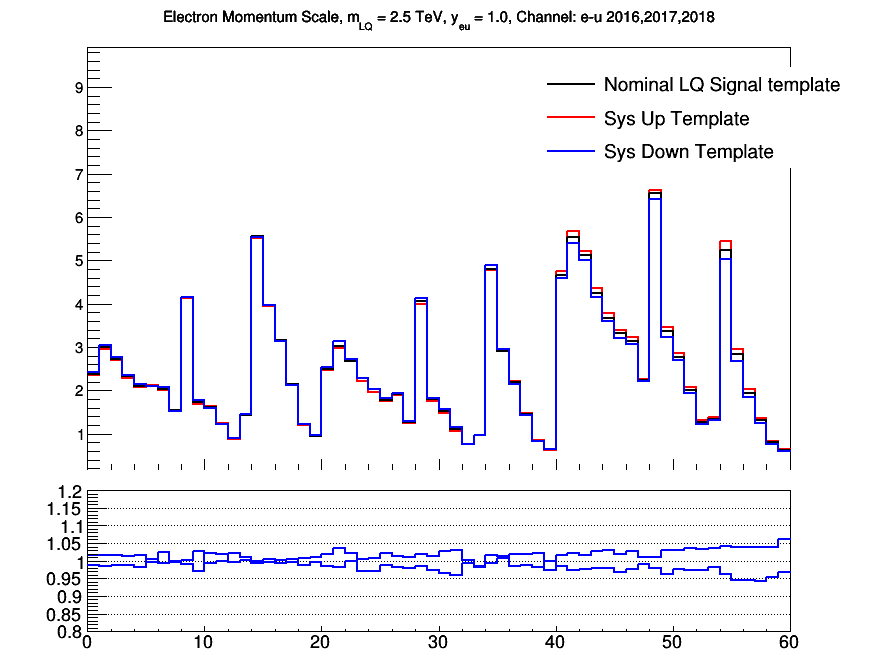
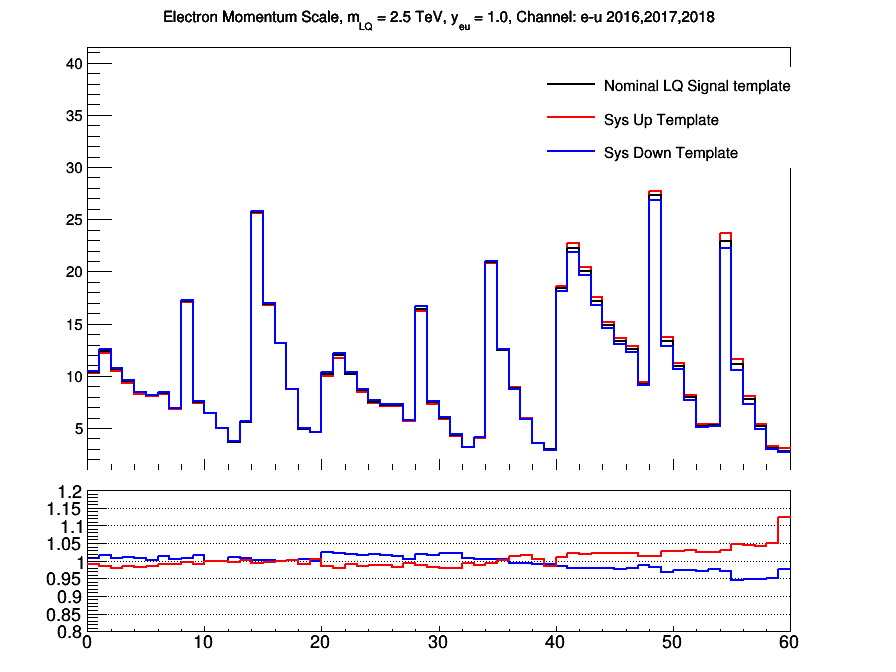
uncs, postfits

diff --git a/plots/Fitting/LQ_sys_check.C b/plots/Fitting/LQ_sys_check.C
@@ -81,7 +81,7 @@ void LQ_sys_check(){
         TH1F *h1_elel_bkg, *h1_mumu_bkg, *h1_elel_bkg_up, *h1_elel_bkg_down, *h1_mumu_bkg_up, *h1_mumu_bkg_down;
         TH1F *h1_elel_qcd, *h1_mumu_qcd, *h1_elel_qcd_up, *h1_elel_qcd_down, *h1_mumu_qcd_up, *h1_mumu_qcd_down;
         
-        for(int year = 2016; year <= 2016; year++){
+        for(int year = 2016; year <= 2018; year++){
 
             init(year);
             setup_all_SFs(year);
@@ -376,8 +376,8 @@ if(do_muons){
     h1_mumu_sys_down_comb->Draw("hist same");
 
     gStyle->SetLegendBorderSize(0);
-    TLegend *leg1 = new TLegend(0.6, 0.75, 0.9, 0.9);
-    leg1->SetTextSize(0.03);
+    TLegend *leg1 = new TLegend(0.5, 0.75, 0.9, 0.9);
+    leg1->SetTextSize(0.025);
     leg1->AddEntry(h1_mumu_plain_comb, "Nominal LQ Signal template", "l");
     leg1->AddEntry(h1_mumu_sys_up_comb, "Sys Up Template", "l");
     leg1->AddEntry(h1_mumu_sys_down_comb, "Sys Down Template", "l");
@@ -410,7 +410,7 @@ if(do_muons){
     ratio_down->GetYaxis()->SetLabelSize(0.1);
     ratio_down->Draw("hist");
            // ratio_down->SetMarkerStyle(21);
-    ratio_up->SetLineColor(kBlue);
+    ratio_up->SetLineColor(kRed);
     ratio_up->Draw("hist same");
     
     c_mumu1->cd();
@@ -464,7 +464,7 @@ if(do_electrons){
 
     gStyle->SetLegendBorderSize(0);
     TLegend *leg1 = new TLegend(0.6, 0.75, 0.9, 0.9);
-    leg1->SetTextSize(0.03);
+    leg1->SetTextSize(0.025);
     leg1->AddEntry(h1_elel_plain_comb, "Nominal LQ Signal template", "l");
     leg1->AddEntry(h1_elel_sys_up_comb, "Sys Up Template", "l");
     leg1->AddEntry(h1_elel_sys_down_comb, "Sys Down Template", "l");
@@ -494,7 +494,7 @@ if(do_electrons){
     ratio_down->GetYaxis()->SetLabelSize(0.1);
     ratio_down->Draw("hist");
            // ratio_down->SetMarkerStyle(21);
-    ratio_up->SetLineColor(kBlue);
+    ratio_up->SetLineColor(kRed);
     ratio_up->Draw("hist same");
 
     c_elel1->cd(); 
